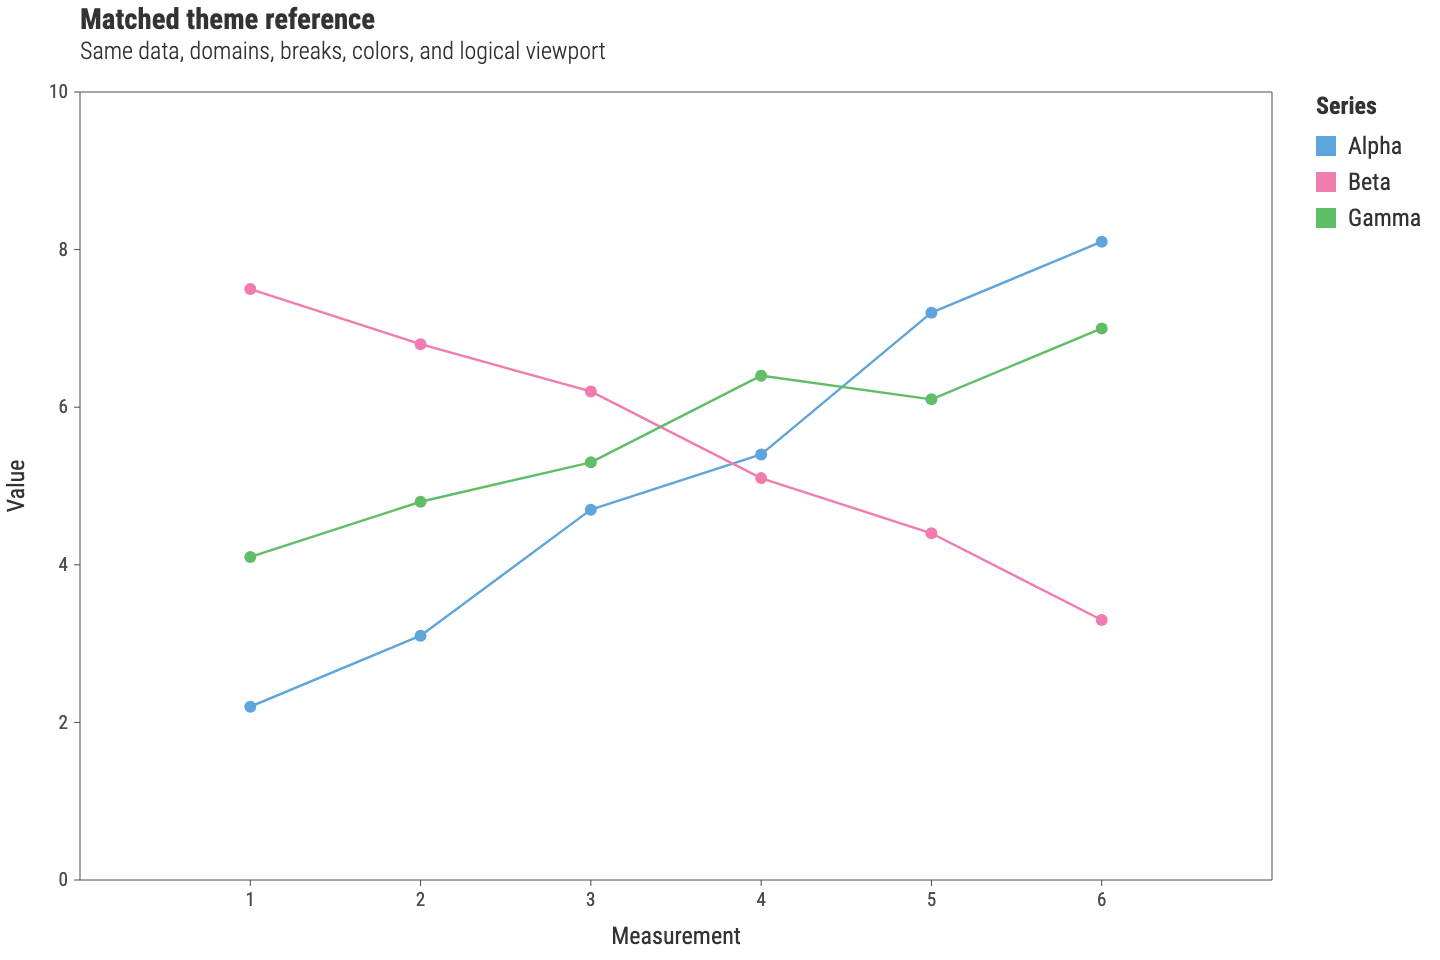
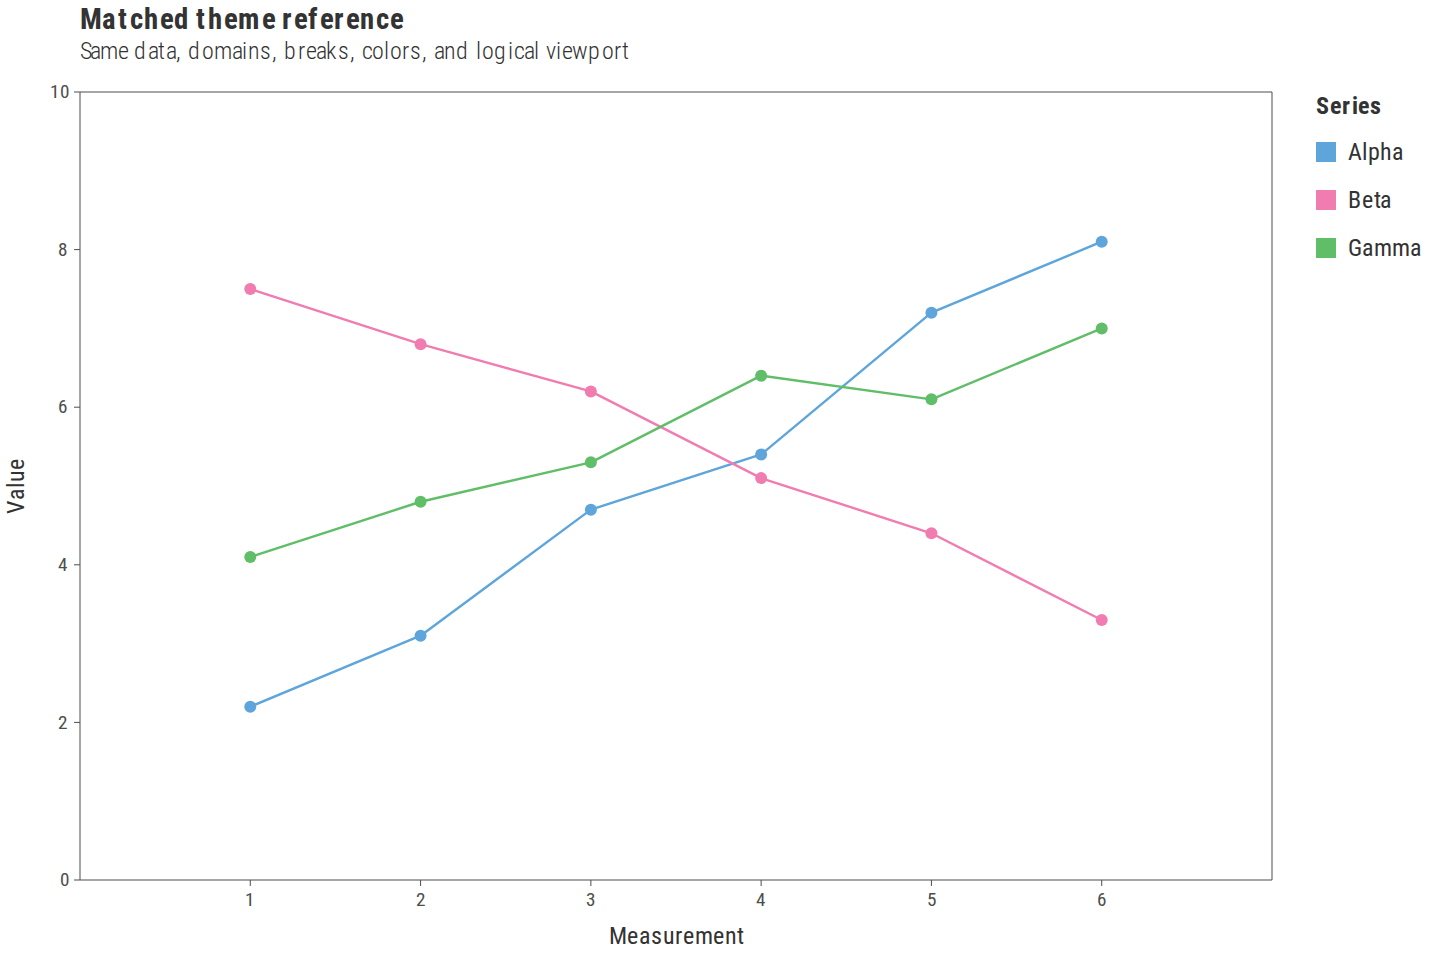
fix(docs): isolate chart themes from site appearance

diff --git a/apps/docs/src/app.css b/apps/docs/src/app.css
@@ -1,14 +1,11 @@
 /*
- * Docs styles. Two jobs beyond looking decent:
+ * Docs styles. Site appearance tokens are deliberately separate from chart
+ * theme tokens: an explicit chart theme must not change when the docs shell
+ * switches between light and dark.
  *
- * 1. THEME → CHART BRIDGE: every chart color rides a --gg-* custom property
- *    with the resolved theme role as fallback, so defining --gg-* per
- *    [data-theme] here restyles every rendered chart without a re-render.
- *    Values mirror @ggsvelte/core BUILTIN_THEMES.light/.dark.
- *
- * 2. VR MODE (html[data-vr], stamped pre-paint by app.html): strip chrome,
- *    freeze all transitions/animations, and pin the fixed-size
- *    .gg-example-frame to the top-left corner for screenshotting.
+ * VR MODE (html[data-vr], stamped pre-paint by app.html) strips chrome,
+ * freezes transitions/animations, and pins the fixed-size .gg-example-frame
+ * to the top-left corner for screenshotting.
  *
  * FONT: the chart component self-hosts Roboto Condensed and waits on
  * document.fonts.ready in VR. The page chrome keeps a native UI stack.
@@ -32,31 +29,6 @@
   --border: #343a44;
   --accent: #7ea1f0;
   color-scheme: dark;
-}
-
-/* Chart theme roles (mirror BUILTIN_THEMES in @ggsvelte/core). */
-:root[data-theme="light"] {
-  --gg-ink: #262626;
-  --gg-paper: #ffffff;
-  --gg-panel: #ffffff;
-  --gg-grid: #cccccc;
-  --gg-accent: #4385be;
-  --gg-axisText: #4d4d4d;
-  --gg-axisLine: #cccccc;
-  --gg-tickColor: #cccccc;
-  --gg-panelBorder: #cccccc;
-}
-
-:root[data-theme="dark"] {
-  --gg-ink: #e6e8eb;
-  --gg-paper: #16181d;
-  --gg-panel: #16181d;
-  --gg-grid: #3b3f46;
-  --gg-accent: #7ea1f0;
-  --gg-axisText: #c6c9ce;
-  --gg-axisLine: #6b717b;
-  --gg-tickColor: #6b717b;
-  --gg-panelBorder: #6b717b;
 }
 
 * {

diff --git a/packages/svelte/tests/presentation.test.ts b/packages/svelte/tests/presentation.test.ts
@@ -1,5 +1,7 @@
 import { describe, expect, it } from "vitest";
 
+import type { RenderModel } from "@ggsvelte/core";
+
 import GGPlot from "../src/lib/GGPlot.svelte";
 import LargePinnedTooltip from "./fixtures/LargePinnedTooltip.svelte";
 import { render } from "./helpers/render.js";
@@ -42,6 +44,36 @@ describe("DESIGN.md interaction presentation", () => {
     expect(getComputedStyle(active).borderTopWidth).toBe("0px");
     expect(getComputedStyle(active).borderBottomWidth).toBe("2px");
     expect(active.getBoundingClientRect().height).toBeGreaterThanOrEqual(44);
+  });
+
+  it("refreshes mixed SVG and canvas strata when the explicit chart theme changes", async () => {
+    const models: Array<{ theme: string; backends: string[] }> = [];
+    const view = render(GGPlot, {
+      data: rows,
+      aes: { x: "x", y: "y" },
+      layers: [
+        { geom: "point", render: "canvas" },
+        { geom: "line", render: "svg" },
+      ],
+      theme: "dark",
+      width: 480,
+      height: 320,
+      onrender: (model: RenderModel) => {
+        models.push({ theme: model.scene.theme.paper, backends: [...model.layerBackends] });
+      },
+    });
+
+    await expect.poll(() => models.at(-1)?.theme).toBe("#16181d");
+    expect(models.at(-1)?.backends).toEqual(["canvas", "svg"]);
+    expect(view.container.querySelector(".gg-paper")?.getAttribute("fill")).toContain("#16181d");
+    expect(view.container.querySelectorAll("canvas")).toHaveLength(1);
+
+    await view.rerender({ theme: "light" });
+
+    await expect.poll(() => models.at(-1)?.theme).toBe("#ffffff");
+    expect(models.at(-1)?.backends).toEqual(["canvas", "svg"]);
+    expect(view.container.querySelector(".gg-paper")?.getAttribute("fill")).toContain("#ffffff");
+    expect(view.container.querySelectorAll("canvas")).toHaveLength(1);
   });
 
   it("renders a solid translucent select draft and outline-only labelled zoom draft", async () => {

diff --git a/scripts/theme-contract.test.ts b/scripts/theme-contract.test.ts
@@ -1,0 +1,24 @@
+import { describe, expect, it } from "bun:test";
+import { readFile } from "node:fs/promises";
+
+import { THEME_NAMES } from "../packages/spec/src/schema.ts";
+
+const APP_CSS = new URL("../apps/docs/src/app.css", import.meta.url);
+const THEME_EVIDENCE = new URL("../artifacts/theme-equivalence/", import.meta.url);
+
+describe("documentation chart theme isolation", () => {
+  it("does not set chart fallback variables from the site appearance", async () => {
+    const css = await readFile(APP_CSS, "utf8");
+
+    expect(css).not.toMatch(
+      /--gg-(?:ink|paper|panel|grid|accent|axisText|axisLine|tickColor|panelBorder)\s*:/,
+    );
+  });
+
+  it("keeps rendered evidence for every registered theme", async () => {
+    for (const theme of THEME_NAMES) {
+      expect(await Bun.file(new URL(`svg/${theme}.svg`, THEME_EVIDENCE)).exists()).toBe(true);
+      expect(await Bun.file(new URL(`ggsvelte-${theme}.png`, THEME_EVIDENCE)).exists()).toBe(true);
+    }
+  });
+});

diff --git a/scripts/render-theme-evidence.ts b/scripts/render-theme-evidence.ts
@@ -7,13 +7,14 @@ import { pathToFileURL } from "node:url";
 import { chromium } from "@playwright/test";
 
 import { renderToSVGString } from "../packages/core/src/index.js";
-import type { SpecInput, ThemeName } from "../packages/spec/src/index.js";
+import { THEME_NAMES, type SpecInput, type ThemeName } from "../packages/spec/src/index.js";
 
 const ROOT = dirname(import.meta.dirname);
 const OUT = join(ROOT, "artifacts/theme-equivalence");
 const SVG_OUT = join(OUT, "svg");
 const FONT_DIR = "../../../packages/svelte/src/lib/fonts";
-const themes = ["ggplot2", "hrbr", "few"] as const satisfies readonly ThemeName[];
+const themes = THEME_NAMES;
+const matchedReferenceThemes = new Set<ThemeName>(["ggplot2", "hrbr", "few"]);
 
 const values = [
   { x: 1, y: 2.2, series: "Alpha" },
@@ -120,12 +121,14 @@ await Bun.write(
   join(OUT, "index.html"),
   `<!doctype html><html lang="en"><head><meta charset="utf-8"><meta name="viewport" content="width=device-width,initial-scale=1"><title>ggsvelte theme equivalence</title>
 <style>:root{font-family:"Roboto Condensed","Arial Narrow",sans-serif;color:#262626;background:#f4f3ef}body{margin:32px}h1{font-size:34px;margin:0 0 6px}p{font-size:17px;color:#5d5952;margin:0 0 30px}.pair{display:grid;grid-template-columns:1fr 1fr;gap:16px;margin:0 0 34px}.pair h2{grid-column:1/-1;margin:0;font-size:24px}.card{background:#fff;padding:10px}.card h3{margin:0 0 8px;font-size:16px}.card img{display:block;width:100%;height:auto}@media(max-width:900px){.pair{grid-template-columns:1fr}}</style></head><body>
-<h1>Theme equivalence evidence</h1><p>Matched data, domains, breaks, colors, 720×480 logical viewport, and 2× raster output. R references use Cairo; ggsvelte uses Chromium with its bundled Roboto Condensed.</p>
+<h1>Registered theme evidence</h1><p>Every registered theme uses matched data, domains, breaks, colors, a 720×480 logical viewport, and 2× raster output. The three reference-matched specimens use Cairo alongside ggsvelte’s Chromium render with bundled Roboto Condensed.</p>
 ${themes
-  .map(
-    (theme) =>
-      `<section class="pair"><h2>${theme}</h2><div class="card"><h3>R reference</h3><img src="r-${theme}.png" width="1440" height="960"></div><div class="card"><h3>ggsvelte</h3><img src="ggsvelte-${theme}.png" width="1440" height="960"></div></section>`,
-  )
+  .map((theme) => {
+    const ggsvelte = `<div class="card"><h3>ggsvelte</h3><img src="ggsvelte-${theme}.png" width="1440" height="960"></div>`;
+    return matchedReferenceThemes.has(theme)
+      ? `<section class="pair"><h2>${theme}</h2><div class="card"><h3>Reference</h3><img src="r-${theme}.png" width="1440" height="960"></div>${ggsvelte}</section>`
+      : `<section class="pair"><h2>${theme}</h2>${ggsvelte}</section>`;
+  })
   .join("\n")}</body></html>`,
 );
-console.log(`Rendered ${themes.length} matched ggsvelte theme references.`);
+console.log(`Rendered ${themes.length} registered ggsvelte themes.`);

diff --git a/artifacts/theme-equivalence/index.html b/artifacts/theme-equivalence/index.html
@@ -1,6 +1,15 @@
 <!doctype html><html lang="en"><head><meta charset="utf-8"><meta name="viewport" content="width=device-width,initial-scale=1"><title>ggsvelte theme equivalence</title>
 <style>:root{font-family:"Roboto Condensed","Arial Narrow",sans-serif;color:#262626;background:#f4f3ef}body{margin:32px}h1{font-size:34px;margin:0 0 6px}p{font-size:17px;color:#5d5952;margin:0 0 30px}.pair{display:grid;grid-template-columns:1fr 1fr;gap:16px;margin:0 0 34px}.pair h2{grid-column:1/-1;margin:0;font-size:24px}.card{background:#fff;padding:10px}.card h3{margin:0 0 8px;font-size:16px}.card img{display:block;width:100%;height:auto}@media(max-width:900px){.pair{grid-template-columns:1fr}}</style></head><body>
-<h1>Theme equivalence evidence</h1><p>Matched data, domains, breaks, colors, 720×480 logical viewport, and 2× raster output. R references use Cairo; ggsvelte uses Chromium with its bundled Roboto Condensed.</p>
-<section class="pair"><h2>ggplot2</h2><div class="card"><h3>R reference</h3><img src="r-ggplot2.png" width="1440" height="960"></div><div class="card"><h3>ggsvelte</h3><img src="ggsvelte-ggplot2.png" width="1440" height="960"></div></section>
-<section class="pair"><h2>hrbr</h2><div class="card"><h3>R reference</h3><img src="r-hrbr.png" width="1440" height="960"></div><div class="card"><h3>ggsvelte</h3><img src="ggsvelte-hrbr.png" width="1440" height="960"></div></section>
-<section class="pair"><h2>few</h2><div class="card"><h3>R reference</h3><img src="r-few.png" width="1440" height="960"></div><div class="card"><h3>ggsvelte</h3><img src="ggsvelte-few.png" width="1440" height="960"></div></section></body></html>
+<h1>Registered theme evidence</h1><p>Every registered theme uses matched data, domains, breaks, colors, a 720×480 logical viewport, and 2× raster output. The three reference-matched specimens use Cairo alongside ggsvelte’s Chromium render with bundled Roboto Condensed.</p>
+<section class="pair"><h2>default</h2><div class="card"><h3>ggsvelte</h3><img src="ggsvelte-default.png" width="1440" height="960"></div></section>
+<section class="pair"><h2>light</h2><div class="card"><h3>ggsvelte</h3><img src="ggsvelte-light.png" width="1440" height="960"></div></section>
+<section class="pair"><h2>dark</h2><div class="card"><h3>ggsvelte</h3><img src="ggsvelte-dark.png" width="1440" height="960"></div></section>
+<section class="pair"><h2>minimal</h2><div class="card"><h3>ggsvelte</h3><img src="ggsvelte-minimal.png" width="1440" height="960"></div></section>
+<section class="pair"><h2>ggplot2</h2><div class="card"><h3>Reference</h3><img src="r-ggplot2.png" width="1440" height="960"></div><div class="card"><h3>ggsvelte</h3><img src="ggsvelte-ggplot2.png" width="1440" height="960"></div></section>
+<section class="pair"><h2>classic</h2><div class="card"><h3>ggsvelte</h3><img src="ggsvelte-classic.png" width="1440" height="960"></div></section>
+<section class="pair"><h2>hrbr</h2><div class="card"><h3>Reference</h3><img src="r-hrbr.png" width="1440" height="960"></div><div class="card"><h3>ggsvelte</h3><img src="ggsvelte-hrbr.png" width="1440" height="960"></div></section>
+<section class="pair"><h2>few</h2><div class="card"><h3>Reference</h3><img src="r-few.png" width="1440" height="960"></div><div class="card"><h3>ggsvelte</h3><img src="ggsvelte-few.png" width="1440" height="960"></div></section>
+<section class="pair"><h2>clean</h2><div class="card"><h3>ggsvelte</h3><img src="ggsvelte-clean.png" width="1440" height="960"></div></section>
+<section class="pair"><h2>fivethirtyeight</h2><div class="card"><h3>ggsvelte</h3><img src="ggsvelte-fivethirtyeight.png" width="1440" height="960"></div></section>
+<section class="pair"><h2>economist</h2><div class="card"><h3>ggsvelte</h3><img src="ggsvelte-economist.png" width="1440" height="960"></div></section>
+<section class="pair"><h2>tufte</h2><div class="card"><h3>ggsvelte</h3><img src="ggsvelte-tufte.png" width="1440" height="960"></div></section></body></html>

diff --git a/artifacts/theme-equivalence/README.md b/artifacts/theme-equivalence/README.md
@@ -2,7 +2,7 @@
 
 This board compares R and ggsvelte renders using the same data, explicit domains, explicit breaks, explicit colors, 720×480 logical viewport, and 1440×960 output. R uses Cairo at 192 dpi. ggsvelte uses Chromium at device scale factor 2 with its bundled Roboto Condensed faces loaded and verified through `document.fonts.check()`.
 
-Open [index.html](./index.html) for the side-by-side board. Raw structural measurements are in [r-metrics.json](./r-metrics.json) and [ggsvelte-metrics.json](./ggsvelte-metrics.json).
+Open [index.html](./index.html) for all 12 registered ggsvelte themes and the three side-by-side structural references. Raw structural measurements are in [r-metrics.json](./r-metrics.json) and [ggsvelte-metrics.json](./ggsvelte-metrics.json).
 
 ## Structural parity
 